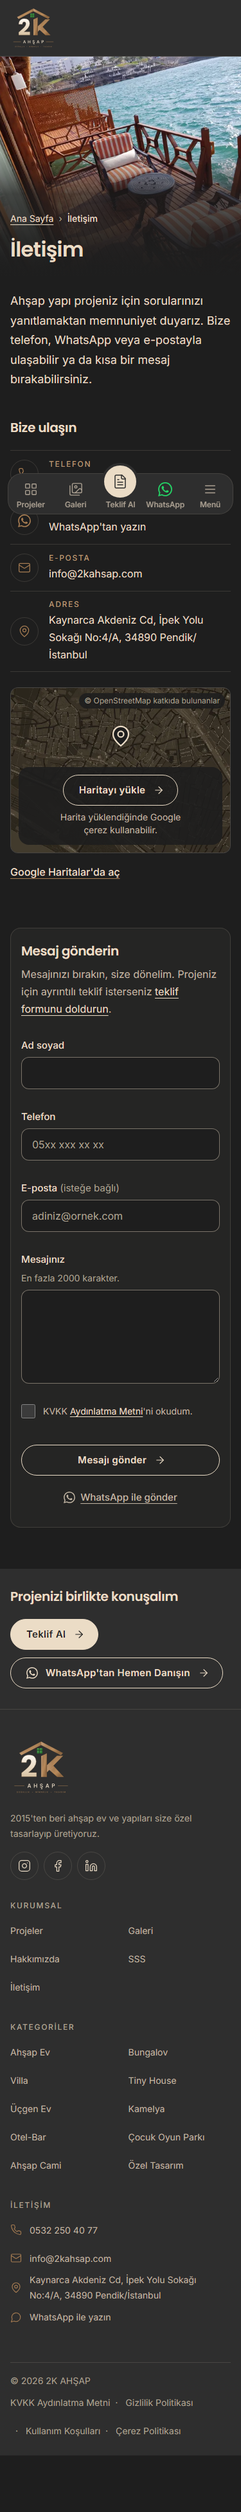
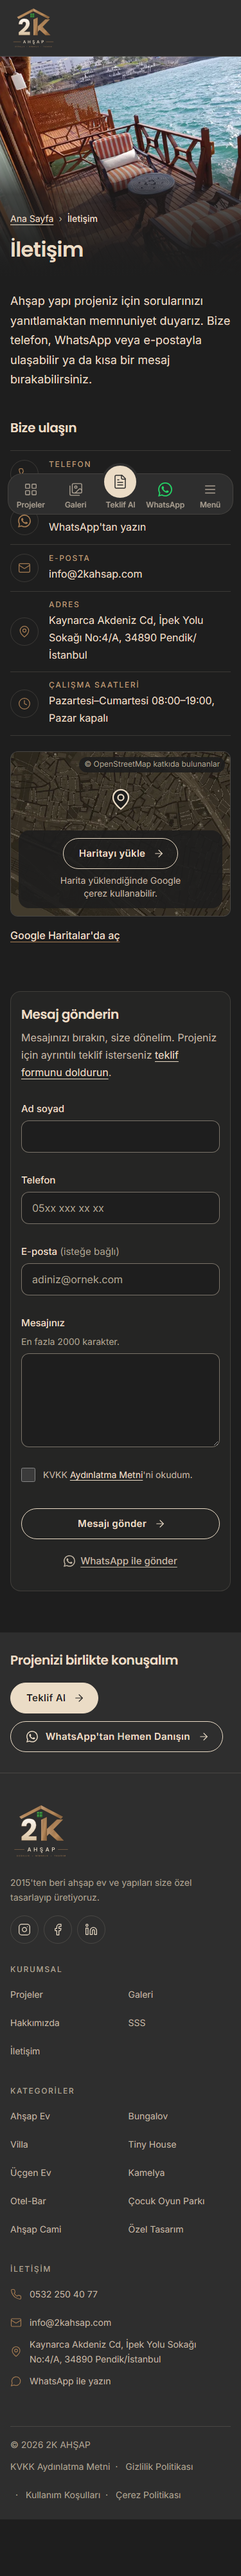
/iletisim: Çalışma saatleri satırı (Pazartesi–Cumartesi 08:00–19:00, Pazar kapalı)
- "Bize ulaşın" listesine Adres'in altına beşinci satır: saat ikonu (Lucide, ikonlar.ts → saat), "Çalışma saatleri" etiketi
- Bağlantı olmadığı için üzerine gelince renk değiştirmez: hover kuralı a.kanal:hover oldu (bağlantı satırları aynı)
- site.ts: firma.calismaSaatleri = { metin, sema }; sayfa metni ve JSON-LD openingHours tek kaynaktan
- Kullanıcı onaylı görsel fark: İ 375/768/1280 referansları yenilendi (1280'de form kartı 27 px uzadı); docs/guvenli-mod/README.md Referans geçmişi
- check 0/0/0, form-kontrol ve jsonld-kontrol temiz; yenilemeden sonraki koşu gorsel-kontrol 48/48 aynı
- onay-bekleyenler §10 uygulandı, seo-kurallar §9 güncellendi

diff --git a/src/data/site.ts b/src/data/site.ts
@@ -85,9 +85,8 @@ export const firma = {
     'https://www.google.com/maps/embed?pb=!1m18!1m12!1m3!1d3016.799859476108!2d29.256386499999998!3d40.876266199999996!2m3!1f0!2f0!3f0!3m2!1i1024!2i768!4f13.1!3m3!1m2!1s0x14cadd121ba2fb5f%3A0x7456a9048d36212a!2zMmthaMWfYXA!5e0!3m2!1str!2str!4v1791987225622!5m2!1str!2str',
   // İşletme profilindeki konum (schema.org geo)
   konum: { enlem: 40.8762662, boylam: 29.2563865 },
-  // Çalışma saatleri (schema.org openingHours biçimi): Pazartesi–Cumartesi 08:00–19:00, Pazar kapalı.
-  // Sitede henüz görünmüyor; /iletisim'de gösterimi onay bekliyor (docs/onay-bekleyenler.md §10).
-  calismaSaatleri: 'Mo-Sa 08:00-19:00',
+  // Çalışma saatleri: metin /iletisim'de görünür, sema schema.org openingHours biçimidir (Pazar kapalı).
+  calismaSaatleri: { metin: 'Pazartesi–Cumartesi 08:00–19:00, Pazar kapalı', sema: 'Mo-Sa 08:00-19:00' },
   vergiDairesi: 'Sarıgazi Vergi Dairesi',
   mersis: '',
   kep: '',

diff --git a/src/data/ikonlar.ts b/src/data/ikonlar.ts
@@ -12,6 +12,7 @@ export const ikon = {
   telefon:
     '<path d="M22 16.92v3a2 2 0 0 1-2.18 2 19.79 19.79 0 0 1-8.63-3.07 19.5 19.5 0 0 1-6-6 19.79 19.79 0 0 1-3.07-8.67A2 2 0 0 1 4.11 2h3a2 2 0 0 1 2 1.72 12.84 12.84 0 0 0 .7 2.81 2 2 0 0 1-.45 2.11L8.09 9.91a16 16 0 0 0 6 6l1.27-1.27a2 2 0 0 1 2.11-.45 12.84 12.84 0 0 0 2.81.7A2 2 0 0 1 22 16.92z"/>',
   eposta: '<rect width="20" height="16" x="2" y="4" rx="2"/><path d="m22 7-8.97 5.7a1.94 1.94 0 0 1-2.06 0L2 7"/>',
+  saat: '<circle cx="12" cy="12" r="10"/><path d="M12 6v6l4 2"/>',
   mesaj: '<path d="M7.9 20A9 9 0 1 0 4 16.1L2 22Z"/>',
   onay: '<circle cx="12" cy="12" r="10"/><path d="m9 12 2 2 4-4"/>',
   tik: '<path d="M20 6 9 17l-5-5"/>', // teklif formunda tamamlanan adım

diff --git a/src/lib/sema.ts b/src/lib/sema.ts
@@ -32,7 +32,7 @@ export const isletmeSemasi = (site: URL) => ({
   },
   geo: { '@type': 'GeoCoordinates', latitude: firma.konum.enlem, longitude: firma.konum.boylam },
   hasMap: firma.harita,
-  openingHours: firma.calismaSaatleri, // sitede gösterimi onay bekliyor (docs/onay-bekleyenler.md §10)
+  openingHours: firma.calismaSaatleri.sema, // /iletisim'de görünen çalışma saatleri
   areaServed: { '@type': 'Country', name: 'Türkiye' },
   founder: { '@type': 'Person', name: firma.kurucu, sameAs: firma.linkedin },
   sameAs: [firma.instagram, firma.facebook],

diff --git a/docs/guvenli-mod/README.md b/docs/guvenli-mod/README.md
@@ -118,6 +118,7 @@ Tek pikselden küçük bir değişiklik (çok küçük puntoda bir nokta gibi) g
 | 20 Ekim 2026 | Bu satırı ekleyen commit (kod ve referanslar birlikte) | Yalnızca İ ve Ç yenilendi (6 referans; kullanıcı talebi). İ: harita kutusunda statik harita görseli (OpenStreetMap, sitede barındırılır), konum işareti, OSM atfı, "Haritayı yükle" kartı ve notu; kutunun altında "Google Haritalar'da aç" linki. İ 375 ve 768 px'te 52 px uzadı (link), 1280 px'te boy aynı. Ç: bant metni "Sitemiz izleme veya reklam çerezi kullanmaz…" oldu. Yenilemeden önce fark yalnızca bu 6 çekimdeydi; diğer 42 çekim %0 aynıydı. Yenileme turunda A 375'te 24 piksellik tek seferlik oynama çıktı (aynı derleme); sonraki koşu 48/48 aynı. |
 | 20 Ekim 2026 | Bu satırı ekleyen commit (kod ve referans birlikte) | Yalnızca Ç 375 yenilendi (1 referans; kullanıcı talebi): mobilde (< 768px) kısa bant, "Sitemiz izleme çerezi kullanmaz. Ayrıntılar: Çerez Politikası" ve sağında küçük "Anladım" (dokunma alanı 44px), iç boşluk 12px; 375px'te bant 87px. Ç 768 ve 1280 %0 aynı (masaüstü değişmedi). Kontrol `--sadece=cerez-bandi` ile yapıldı; bant diğer çekimlerde kapalı olduğu için onları etkilemez. |
 | 25 Ekim 2026 | Bu satırı ekleyen commit (kod ve referanslar birlikte) | A 375/768/1280, A1 768 ve Ç 768 yenilendi (5 referans; kullanıcı onaylı): Ürünlerimiz on kategori kartlık, elle kaydırılan şerit oldu (kart numaraları, kategori düğmeleri ve ara tondaki bant kalktı; bölüm tek gece zemin; ≥ 768px'te kartların yanında oklar, sağ kenar zemine karışır; "Tüm projeler" başlıkta, mobilde kartların altında). Boy: A 375 7485 → 7285, 768 6291 → 5624, 1280 4508 → 4452. A1 768 ve Ç 768'de yalnızca ilk ekranın altındaki kart üstleri ve link değişti. A1 412, Ç 375 ve Ç 1280 %0 aynı (yeni çekimlerdeki 50–128 baytlık gürültü yüzünden yenilenmedi). Önceki tam koşuda diğer 43 çekim %0 aynıydı. 768px'teki "yüklenemeyen görsel" uyarısı zararsız: ilk ekran çekimi şeridin ekran dışındaki lazy görsellerini bekliyor. |
+| 26 Ekim 2026 | Bu satırı ekleyen commit (kod ve referanslar birlikte) | Yalnızca İ yenilendi (3 referans; kullanıcı onaylı): "Bize ulaşın" listesine Adres'in altına "Çalışma saatleri" satırı (saat ikonu, "Pazartesi–Cumartesi 08:00–19:00, Pazar kapalı"). Boy: İ 375 3907 → 4005, 768 3280 → 3353, 1280 2119 → 2146; 1280'de form kartı sol sütunla aynı boyda durduğu için 27 px uzadı. Eklemenin altı, eklenen yükseklik kadar kaydırılınca referansla %0,15–0,19 farklı (alt piksel metin gürültüsü; 1280'de form sütunu kaymadığı için %3). M1 ve M2 %0 aynı. Aynı koşuda K ve S de yenilendi (sonraki satır); diğer 39 çekim %0 aynıydı. |
 
 ### Bilinen sınırlar
 

diff --git a/docs/onay-bekleyenler.md b/docs/onay-bekleyenler.md
@@ -152,7 +152,7 @@ Lighthouse'un kalan en büyük önerisi, sayfa çizilmeden önce beklenen CSS do
   - ✅ Çözüldü (26 Ekim 2026, 1c727aa): kaydırılmış header'ın görünmeyen iç kabı (`.ust-ic`) ve logo linkinin kutusu header'ın altına taşıp tıklamayı yutuyordu (ana sayfada 17 / 50 px, diğer sayfalarda ≥ 1024 px'te 12 px). Taşan kısım artık tıklamayı almıyor. `check:sss` 96/96.
 - **Proje sayfası ışık kutusundaki adressiz görsel.** `Galeri.astro`'daki büyük görsel (`data-ik-gorsel`) HTML'de `src`'siz duruyor; `check:images` onu istisnayla atlıyor. `/galeri`'deki gibi (db7a2a8) görseli JS ile oluşturup istisnayı kaldırmak gerekiyor. Yapılmadı.
 
-## 10. Çalışma saatlerinin /iletisim'de gösterimi (onay bekliyor, 26 Ekim 2026)
+## 10. Çalışma saatlerinin /iletisim'de gösterimi (onaylandı ve uygulandı, 26 Ekim 2026)
 
-- Saatler: Pazartesi–Cumartesi 08:00–19:00, Pazar kapalı (kullanıcı). Kaynak `src/data/site.ts` → `firma.calismaSaatleri`; JSON-LD'de `openingHours: "Mo-Sa 08:00-19:00"` olarak yayında.
-- Sayfada henüz görünmüyor. Öneri: `/iletisim`'deki "Bize ulaşın" listesine beşinci satır (saat ikonu, "Çalışma saatleri" etiketi); bağlantı olmadığı için üzerine gelince renk değiştirmez. Onay gelince eklenir; o zamana kadar şemadaki tek görünmeyen bilgi budur.
+- Saatler: Pazartesi–Cumartesi 08:00–19:00, Pazar kapalı (kullanıcı). Kaynak `src/data/site.ts` → `firma.calismaSaatleri` (`metin` sayfada, `sema` JSON-LD'de `openingHours: "Mo-Sa 08:00-19:00"`).
+- `/iletisim`'deki "Bize ulaşın" listesinde beşinci satır: saat ikonu, "Çalışma saatleri" etiketi. Bağlantı olmadığı için üzerine gelince renk değiştirmez (`a.kanal:hover`). 1280 px'te form kartı sol sütunla aynı boyda durduğu için 27 px uzadı (onaylandı). İ'nin 3 referansı yenilendi (`docs/guvenli-mod/README.md`, Referans geçmişi).

diff --git a/.claude/skills/seo-kurallar/SKILL.md b/.claude/skills/seo-kurallar/SKILL.md
@@ -179,7 +179,7 @@ const isletme = {
 ```
 
 - LinkedIn hesabı şirketin değil, sahibinin kişisel profili olduğu için `founder` altında durur.
-- Çalışma saatleri ve koordinatlar firma bilgisinden gelir, uydurulmaz: `geo` (`site.ts` → `firma.konum`) ve `openingHours: "Mo-Sa 08:00-19:00"` (`firma.calismaSaatleri`, Pazar kapalı; 26 Ekim 2026). Saatlerin `/iletisim`'de gösterimi onay bekliyor; o zamana kadar şemadaki tek görünmeyen bilgi budur.
+- Çalışma saatleri ve koordinatlar firma bilgisinden gelir, uydurulmaz: `geo` (`site.ts` → `firma.konum`) ve `openingHours: "Mo-Sa 08:00-19:00"` (`firma.calismaSaatleri.sema`, Pazar kapalı; 26 Ekim 2026). Aynı bilgi `/iletisim`'deki "Bize ulaşın" listesinde görünür (`firma.calismaSaatleri.metin`); ikisi tek kaynaktan gelir.
 - Ad, adres ve telefon footer'daki ve Google İşletme Profili'ndeki bilgiyle birebir aynı olmalı.
 
 ### Konum çubuğu olan her sayfada — BreadcrumbList
